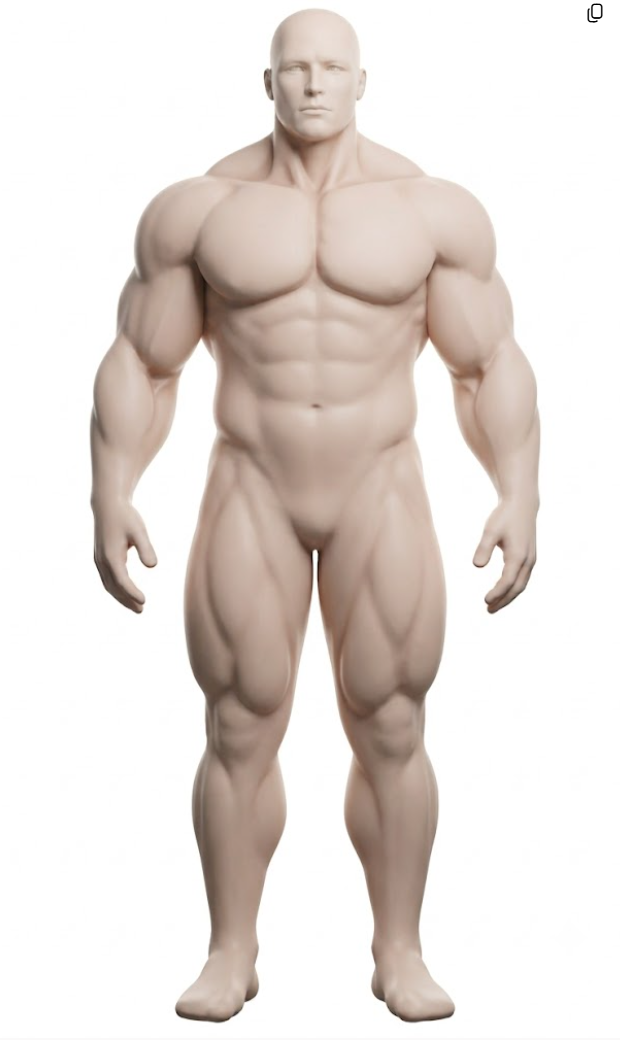
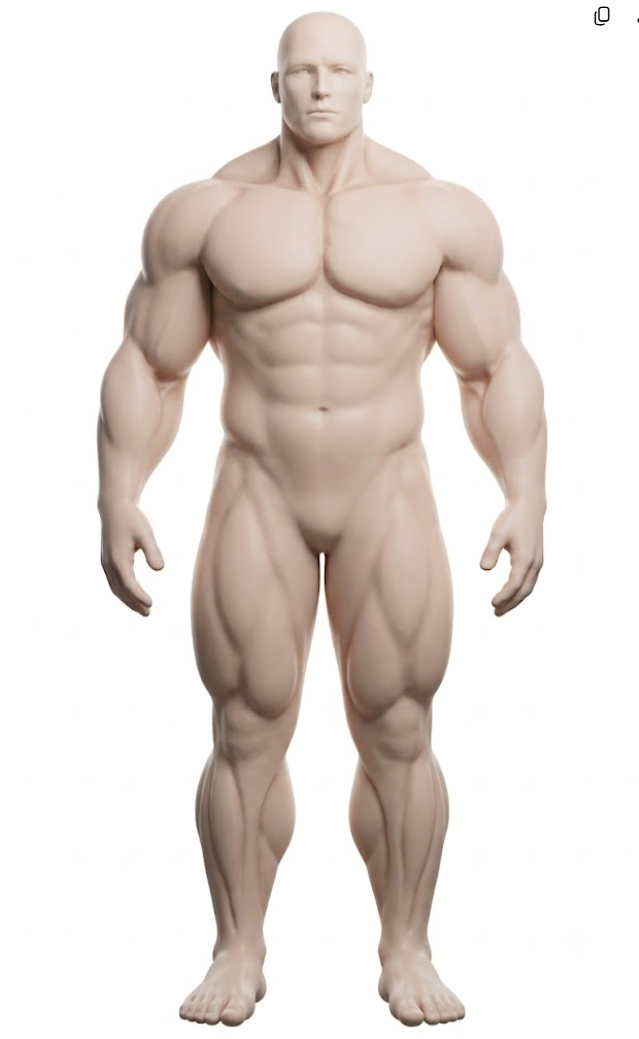
근육 그림 프롬프트: 전경골근 둥글둥글 크게
Claude-Session: https://claude.ai/code/session_01BoBwgsWhq9LWGdXHzThg1i

diff --git a/문서/자료/근육그림/대표칸/프롬프트_v2_한글.md b/문서/자료/근육그림/대표칸/프롬프트_v2_한글.md
@@ -34,7 +34,7 @@
 - 가슴: 마네킹처럼 매끈하게 막힌 면, 젖꼭지 · 배꼽 없음.
 - 사타구니(중요): 매장 마네킹처럼 완전히 평평하고 매끈하게 — 아랫배가 안쪽 허벅지까지 한 면으로 곧게 이어짐. 볼록함 · 둔덕 · 덩어리 · 윤곽 · 무언가를 암시하는 그림자 전부 없음.
 
-근육 칸 — 이 그림은 근육 부위 지도의 밑그림이라 아래 15칸이 쉽게 구별돼야 한다. 하지만 자연스럽고 해부학적으로 — 조명을 잘 받은 실제 근육질 몸이나 잘 만든 해부 조각처럼. 근육 무리 하나하나는 부드럽고 둥글고 꽉 찬 덩어리. 두 무리가 만나는 곳은 표면이 자연스럽고 부드러운 골짜기로 내려가고, 그 골짜기는 가장 깊은 곳이 확실히 더 어둡게, 다음 근육이 다시 둥글게 솟으면서 서서히 밝아진다. 구분은 오직 이 자연스러운 골짜기와 음영으로만; 피부 표면은 모든 골짜기에서 끊기지 않고 유기적으로 이어진다. 15칸 사이 골짜기는 그래도 뚜렷하고 끊김 없이 이어져서, 음영만 보고도 어디서 칸이 끝나는지 알 수 있게(편집 도구가 따라갈 수 있을 만큼). 특히 이 경계 골짜기들은 아주 뚜렷하게(아랫가슴 아래 골짜기만큼): (1) 목과 승모근 위쪽이 윗가슴과 갈라지는 곳 — 쇄골을 따라, 그리고 목 밑동; (2) 허벅지 앞에서 대퇴사두를 두르는 U자 골짜기 — 안쪽은 내전근 옆을 따라 내려가, 무릎 바로 위를 돌아, 바깥쪽으로 골반까지 올라감; (3) 전완에서 상완요골근을 두르는 골짜기 — 팔꿈치 바로 아래 엄지 쪽에 솟은 근육; 상완요골근 자체는 힘줄 같거나 가늘게 마른 느낌이 아니라, 근육 위에 지방이 부드럽게 덮여 꽉 차고 풍만하게 둥근 모양 — 그리고 팔꿈치에서 전완과 위팔이 만나는 골짜기; (4) 종아리에서, 종아리(비복근)와 정강이 앞바깥 근육(전경골근) 사이 골짜기 — 종아리와 정강이 근육이 확실히 다른 두 덩어리로 보이게; 전경골근은 정강이 앞바깥을 따라 내려가는 뚜렷하게 보이는 근육이고, 양옆 모두 골짜기 음영이 또렷하게. 칸 안쪽은 매끈하고 단순하게: 근섬유 결 · 핏줄 · 힘줄 · 잔 구분선 없음.
+근육 칸 — 이 그림은 근육 부위 지도의 밑그림이라 아래 15칸이 쉽게 구별돼야 한다. 하지만 자연스럽고 해부학적으로 — 조명을 잘 받은 실제 근육질 몸이나 잘 만든 해부 조각처럼. 근육 무리 하나하나는 부드럽고 둥글고 꽉 찬 덩어리. 두 무리가 만나는 곳은 표면이 자연스럽고 부드러운 골짜기로 내려가고, 그 골짜기는 가장 깊은 곳이 확실히 더 어둡게, 다음 근육이 다시 둥글게 솟으면서 서서히 밝아진다. 구분은 오직 이 자연스러운 골짜기와 음영으로만; 피부 표면은 모든 골짜기에서 끊기지 않고 유기적으로 이어진다. 15칸 사이 골짜기는 그래도 뚜렷하고 끊김 없이 이어져서, 음영만 보고도 어디서 칸이 끝나는지 알 수 있게(편집 도구가 따라갈 수 있을 만큼). 특히 이 경계 골짜기들은 아주 뚜렷하게(아랫가슴 아래 골짜기만큼): (1) 목과 승모근 위쪽이 윗가슴과 갈라지는 곳 — 쇄골을 따라, 그리고 목 밑동; (2) 허벅지 앞에서 대퇴사두를 두르는 U자 골짜기 — 안쪽은 내전근 옆을 따라 내려가, 무릎 바로 위를 돌아, 바깥쪽으로 골반까지 올라감; (3) 전완에서 상완요골근을 두르는 골짜기 — 팔꿈치 바로 아래 엄지 쪽에 솟은 근육; 상완요골근 자체는 힘줄 같거나 가늘게 마른 느낌이 아니라, 근육 위에 지방이 부드럽게 덮여 꽉 차고 풍만하게 둥근 모양 — 그리고 팔꿈치에서 전완과 위팔이 만나는 골짜기; (4) 종아리에서, 종아리(비복근)와 정강이 앞바깥 근육(전경골근) 사이 골짜기 — 종아리와 정강이 근육이 확실히 다른 두 덩어리로 보이게; 전경골근은 정강이 앞바깥을 따라 내려가는 뚜렷하게 보이는 근육이고, 양옆 모두 골짜기 음영이 또렷하게 — 하지만 힘줄 같거나 가늘게 마른 느낌이 아니라, 지방이 부드럽게 덮여 크고 꽉 차고 둥글둥글하게. 칸 안쪽은 매끈하고 단순하게: 근섬유 결 · 핏줄 · 힘줄 · 잔 구분선 없음.
 1. 목: 목 앞과 옆, 턱 아래 ~ 쇄골 (목 뒤는 승모근 칸).
 2. 어깨: 삼각근 덩어리 전체.
 3. 가슴: 대흉근 전체, 겨드랑이 아래 옆갈비의 작은 손가락 모양 부분(전거근)까지.

diff --git a/문서/자료/근육그림/대표칸/프롬프트_v2.md b/문서/자료/근육그림/대표칸/프롬프트_v2.md
@@ -34,7 +34,7 @@ STYLE (keep identical in every image; if a reference image is attached, match it
 - Chest: smooth closed mannequin surface, no nipples, no navel.
 - Groin (important): completely FLAT and smooth, like a store mannequin — the lower belly flows straight down into the inner thighs as one smooth surface. No bulge, no mound, no lump, no outline and no shadow suggesting anything there.
 
-MUSCLE GROUPS — this image is the base for a muscle-group map, so the 15 groups below must be easy to tell apart, but in a NATURAL, ANATOMICAL way — like a real, well-lit muscular body or a high-quality anatomy sculpture. Each muscle group is a soft, rounded, full volume. Where two groups meet, the surface dips into a natural soft valley; that valley is shaded clearly darker at its deepest point and gets gradually lighter as the next muscle rounds up again. The separation comes ONLY from these natural valleys and their shading; the skin surface stays continuous and organic across every valley. Every valley between the 15 groups should still be distinct and continuous, so the shading alone shows where each group ends (clear enough for an image-editing tool to follow). Make these border valleys especially clear (as clear as the valley under the lower chest): (1) where the neck and the upper trapezius separate from the upper chest — along the collarbones and at the base of the neck; (2) the U-shaped valley that outlines the quadriceps on the front of each thigh — down the inner side beside the adductors, around just above the knee, and up the outer side to the hip; (3) on the forearm, the valley around the brachioradialis — the ridge on the thumb side of the forearm just below the elbow; the brachioradialis itself is NOT sinewy or stringy but full and plump, rounded with a soft layer of fat over the muscle — and the valley where the forearm meets the upper arm at the elbow; (4) on the lower leg, the valley between the calf (gastrocnemius) and the shin muscle (tibialis anterior) at the front-outer side of the shin, so the calf and the shin muscle read as two clearly separate shapes; the tibialis anterior is a distinct, visible muscle running down the front-outer shin, with its own clearly shaded valley on both sides. Inside each group the surface is smooth and simple: no striations, no veins, no tendons, no small sub-divisions.
+MUSCLE GROUPS — this image is the base for a muscle-group map, so the 15 groups below must be easy to tell apart, but in a NATURAL, ANATOMICAL way — like a real, well-lit muscular body or a high-quality anatomy sculpture. Each muscle group is a soft, rounded, full volume. Where two groups meet, the surface dips into a natural soft valley; that valley is shaded clearly darker at its deepest point and gets gradually lighter as the next muscle rounds up again. The separation comes ONLY from these natural valleys and their shading; the skin surface stays continuous and organic across every valley. Every valley between the 15 groups should still be distinct and continuous, so the shading alone shows where each group ends (clear enough for an image-editing tool to follow). Make these border valleys especially clear (as clear as the valley under the lower chest): (1) where the neck and the upper trapezius separate from the upper chest — along the collarbones and at the base of the neck; (2) the U-shaped valley that outlines the quadriceps on the front of each thigh — down the inner side beside the adductors, around just above the knee, and up the outer side to the hip; (3) on the forearm, the valley around the brachioradialis — the ridge on the thumb side of the forearm just below the elbow; the brachioradialis itself is NOT sinewy or stringy but full and plump, rounded with a soft layer of fat over the muscle — and the valley where the forearm meets the upper arm at the elbow; (4) on the lower leg, the valley between the calf (gastrocnemius) and the shin muscle (tibialis anterior) at the front-outer side of the shin, so the calf and the shin muscle read as two clearly separate shapes; the tibialis anterior is a distinct, visible muscle running down the front-outer shin, with its own clearly shaded valley on both sides — but it is NOT sinewy or stringy: it is big, full and softly rounded, with a soft layer of fat over it. Inside each group the surface is smooth and simple: no striations, no veins, no tendons, no small sub-divisions.
 1. Neck: front and sides of the neck, jaw to collarbone (the back of the neck belongs to the trapezius).
 2. Shoulder: the whole deltoid cap.
 3. Chest: the whole pectoral, including the small finger-like area on the side ribs below the armpit.

diff --git a/문서/자료/근육그림/대표칸/프롬프트_v3_고쳐그리기.md b/문서/자료/근육그림/대표칸/프롬프트_v3_고쳐그리기.md
@@ -23,7 +23,7 @@ Change only the surface:
 - Chest: remove the nipples. The lower chest is full and round, not angular.
 - Remove the navel. The groin is completely flat and smooth like a store mannequin, with no bulge.
 - Face: a calm, neutral face; the mouth closed and relaxed with NO smile. Eyes calm and kind — eyelids slightly relaxed (not wide open, not staring); irises very faint and the same color as the skin, no dark pupils, no bright eye whites. Bald.
-- Make these border valleys especially clear (as clear as the valley under the lower chest): where the neck and upper trapezius separate from the upper chest, along the collarbones and at the base of the neck; the U-shaped valley outlining the quadriceps on the front of each thigh (down the inner side, around above the knee, up the outer side to the hip); and on the forearm, the valley around the brachioradialis (the ridge on the thumb side just below the elbow — itself full and plump with a soft layer of fat, not sinewy) and where the forearm meets the upper arm; and on the lower leg, the valley between the calf (gastrocnemius) and the shin muscle (tibialis anterior), so they read as two clearly separate shapes; the tibialis anterior is a distinct, visible muscle down the front-outer shin.
+- Make these border valleys especially clear (as clear as the valley under the lower chest): where the neck and upper trapezius separate from the upper chest, along the collarbones and at the base of the neck; the U-shaped valley outlining the quadriceps on the front of each thigh (down the inner side, around above the knee, up the outer side to the hip); and on the forearm, the valley around the brachioradialis (the ridge on the thumb side just below the elbow — itself full and plump with a soft layer of fat, not sinewy) and where the forearm meets the upper arm; and on the lower leg, the valley between the calf (gastrocnemius) and the shin muscle (tibialis anterior), so they read as two clearly separate shapes; the tibialis anterior is a distinct, visible muscle down the front-outer shin — big, full and softly rounded with a soft layer of fat, not sinewy.
 - Background: pure white, no floor shadow.
 
 The result has the same tall vertical shape as the attached image, with just this one person on white. Do not add any text, words, numbers, labels, lines or arrows.

diff --git a/문서/작업일지.md b/문서/작업일지.md
@@ -101,3 +101,4 @@
 - 10-10 홍겸 님: 종아리(비복근) · 전경골근 사이 음영 뚜렷 · 웃음 이상 → 입 다물고 웃지 않음 · 눈 무서움 → 눈꺼풀 살짝 힘 빼고, 홍채는 피부색으로 아주 흐리게, 검은 눈동자 · 흰자 없음 (v2 영 · 한 · v3)
 - 10-10 홍겸 님: 상완요골근이 너무 근육틱 → 지방이 덮여 꽉 차고 풍만하게 (경계는 뚜렷하게 유지)
 - 10-10 홍겸 님: 점점 나아짐(최근판 제미나이_01_전신앞_최근.png) · 발가락 없음 → "손 · 발은 칸 아니지만 온전하게, 발가락 다섯 개" ("평범한 모양" 문구가 원인 같아 바꿈) · 종아리 좌우 5% 더(위팔의 1.5 → 1.6배) · 전경골근 더 뚜렷
+- 10-10 홍겸 님: 전경골근 너무 근육틱 → 지방 덮여 크고 둥글둥글하게(경계 음영은 유지) · 최근판 갱신
